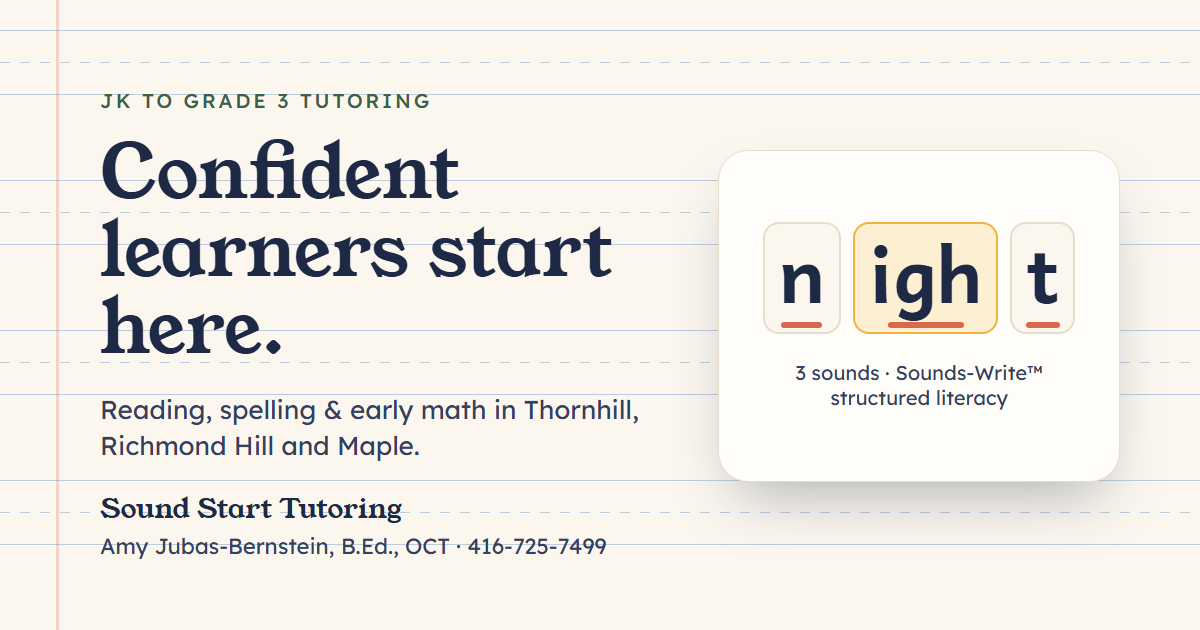
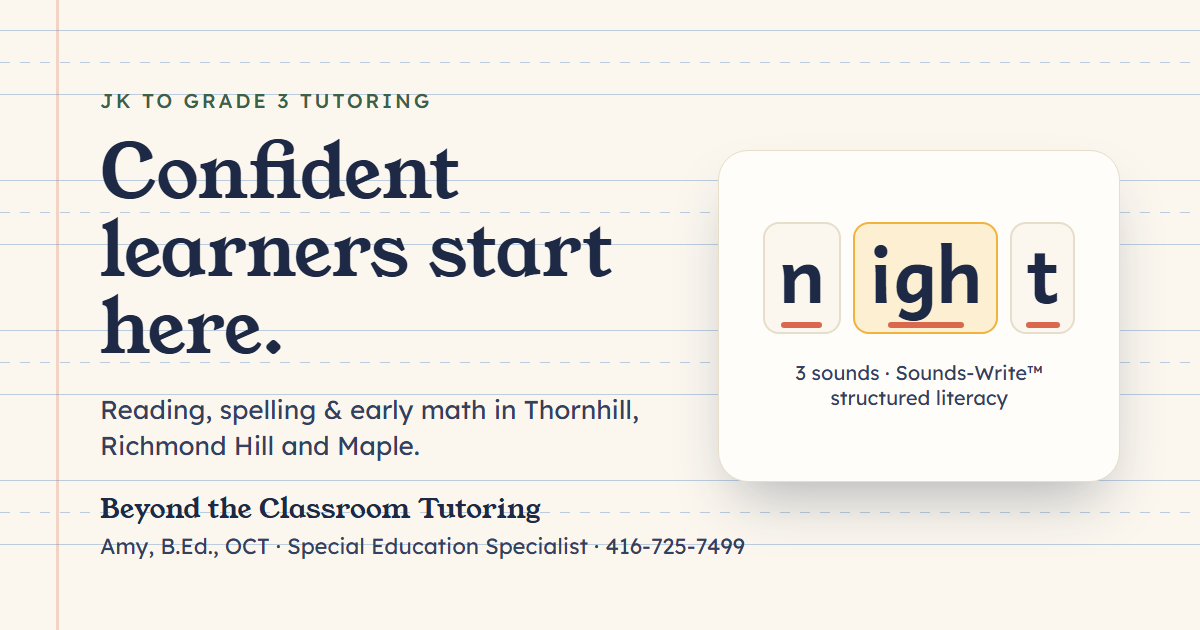
Rename to Beyond the Classroom Tutoring, first name only, add TDSB/YRDSB/private school experience

Changed region(s): [[0.0617, 0.7841, 0.6167, 0.9048]]

diff --git a/index.html b/index.html
@@ -3,21 +3,21 @@
 <head>
 <meta charset="utf-8">
 <meta name="viewport" content="width=device-width, initial-scale=1">
-<title>Sound Start Tutoring | JK–Grade 3 Tutor in Thornhill</title>
-<meta name="description" content="Specialized JK to Grade 3 tutoring in reading, spelling and early math with Amy Jubas-Bernstein, OCT. Sounds-Write structured literacy. Call 416-725-7499.">
+<title>Beyond the Classroom Tutoring | JK–Grade 3, Thornhill</title>
+<meta name="description" content="Specialized JK to Grade 3 tutoring in reading, spelling and early math with Amy, OCT, a Special Education Specialist. Sounds-Write literacy. Call 416-725-7499.">
 <link rel="canonical" href="https://jdix22.github.io/amy-tutor/">
 <meta name="theme-color" content="#1E2A45">
 <!-- Prospect preview: remove this line when Amy approves and the site moves to her domain -->
 <meta name="robots" content="noindex">
 
 <meta property="og:type" content="website">
-<meta property="og:site_name" content="Sound Start Tutoring">
-<meta property="og:title" content="Sound Start Tutoring | Confident learners start here">
-<meta property="og:description" content="JK to Grade 3 reading, spelling and early math tutoring in Thornhill, Richmond Hill and Maple with Amy Jubas-Bernstein, OCT.">
+<meta property="og:site_name" content="Beyond the Classroom Tutoring">
+<meta property="og:title" content="Beyond the Classroom Tutoring | Confident learners start here">
+<meta property="og:description" content="JK to Grade 3 reading, spelling and early math tutoring in Thornhill, Richmond Hill and Maple with Amy, an Ontario Certified Teacher.">
 <meta property="og:image" content="https://jdix22.github.io/amy-tutor/assets/og.png">
 <meta property="og:image:width" content="1200">
 <meta property="og:image:height" content="630">
-<meta property="og:image:alt" content="Sound Start Tutoring: the word night split into the sound tiles n, igh and t">
+<meta property="og:image:alt" content="Beyond the Classroom Tutoring: the word night split into the sound tiles n, igh and t">
 <meta property="og:url" content="https://jdix22.github.io/amy-tutor/">
 <meta property="og:locale" content="en_CA">
 <meta name="twitter:card" content="summary_large_image">
@@ -36,7 +36,7 @@
     {
       "@type": "ProfessionalService",
       "@id": "https://jdix22.github.io/amy-tutor/#business",
-      "name": "Sound Start Tutoring",
+      "name": "Beyond the Classroom Tutoring",
       "description": "Specialized JK to Grade 3 tutoring in structured literacy (Sounds-Write), reading, spelling and foundational math, in person in Thornhill, Richmond Hill and Maple, Ontario.",
       "slogan": "Confident learners start here.",
       "url": "https://jdix22.github.io/amy-tutor/",
@@ -66,7 +66,8 @@
     {
       "@type": "Person",
       "@id": "https://jdix22.github.io/amy-tutor/#amy",
-      "name": "Amy Jubas-Bernstein",
+      "name": "Amy",
+      "description": "Ontario Certified Teacher and Special Education Specialist with more than 10 years in special education, who has taught in the TDSB, YRDSB and private schools.",
       "jobTitle": "JK to Grade 3 tutor and Special Education Specialist",
       "email": "amyjb@rogers.com",
       "telephone": "+1-416-725-7499",
@@ -83,7 +84,7 @@
       "@type": "WebSite",
       "@id": "https://jdix22.github.io/amy-tutor/#website",
       "url": "https://jdix22.github.io/amy-tutor/",
-      "name": "Sound Start Tutoring",
+      "name": "Beyond the Classroom Tutoring",
       "publisher": { "@id": "https://jdix22.github.io/amy-tutor/#business" }
     },
     {
@@ -104,11 +105,11 @@
 <style>
   /*
     FACTS (single source for page text and JSON-LD). From Amy's flyer, Nov 2026.
-    Business name: NOT CHOSEN YET. Working name "Sound Start Tutoring" (find-and-replace to change;
+    Business name: Beyond the Classroom Tutoring (chosen by Amy, Nov 2026; find-and-replace to change;
                    preview any name with ?name=Your%20Name on the URL)
-    Tutor:         Amy Jubas-Bernstein
+    Tutor:         Amy (first name only: she does not want her surname on the site)
     Credentials:   Certified Special Education Specialist (10+ years), Sounds-Write trained, B.Ed., OCT
-    Experience:    Qualified educator, 10+ years
+    Experience:    10+ years in special education; taught in TDSB, YRDSB and private schools (show "10+", not total years)
     Grades:        JK to Grade 3 (K-3 specialist)
     Services:      Structured literacy (Sounds-Write) & early math; personalized learning; Sounds-Write phonics;
                    reading & spelling; foundational math; building confidence
@@ -451,9 +452,9 @@
 
 <header class="top" id="top">
   <div class="wrap">
-    <a class="brand" href="#main" aria-label="Sound Start Tutoring, home" data-brand-label>
+    <a class="brand" href="#main" aria-label="Beyond the Classroom Tutoring, home" data-brand-label>
       <svg viewBox="0 0 48 48" aria-hidden="true"><rect width="48" height="48" rx="14" fill="#1E2A45"/><text x="24" y="31" text-anchor="middle" font-family="Andika, sans-serif" font-weight="700" font-size="26" fill="#FBF7EF">a</text><rect x="15" y="36" width="18" height="3.5" rx="1.75" fill="#D9684C"/><circle cx="37" cy="11" r="4" fill="#F2B23E"/></svg>
-      <span class="brand-name" data-brand>Sound Start Tutoring</span>
+      <span class="brand-name" data-brand>Beyond the Classroom Tutoring</span>
     </a>
     <nav class="nav" aria-label="Main">
       <a href="#help">Services</a>
@@ -480,7 +481,7 @@
         <h1 id="h1" class="rv d1">Confident <span class="ul">learners<svg viewBox="0 0 300 20" preserveAspectRatio="none" aria-hidden="true"><path d="M4 14 C 60 4, 140 4, 200 10 S 280 14, 296 6"/></svg></span> start here.
           <span class="h1-sub">Specialized tutoring in reading, spelling and early math for children in JK to Grade 3.</span>
         </h1>
-        <p class="lede rv d2">Amy Jubas-Bernstein is an Ontario Certified Teacher and Special Education Specialist with more than 10 years of experience. She teaches reading through Sounds-Write&trade; structured literacy and builds the early math skills everything else depends on.</p>
+        <p class="lede rv d2">Amy is an Ontario Certified Teacher and Special Education Specialist with more than 10 years in special education, and has taught in the TDSB, YRDSB and private schools. She teaches reading through Sounds-Write&trade; structured literacy and builds the early math skills everything else depends on.</p>
         <div class="cta-row rv d2">
           <a class="btn btn-primary" href="tel:+14167257499">
             <svg viewBox="0 0 24 24" fill="none" stroke="currentColor" stroke-width="2" stroke-linecap="round" stroke-linejoin="round" aria-hidden="true"><path d="M22 16.9v3a2 2 0 0 1-2.2 2 19.8 19.8 0 0 1-8.6-3.1 19.5 19.5 0 0 1-6-6A19.8 19.8 0 0 1 2.1 4.2 2 2 0 0 1 4.1 2h3a2 2 0 0 1 2 1.7c.1 1 .4 1.9.7 2.8a2 2 0 0 1-.5 2.1L8 9.9a16 16 0 0 0 6 6l1.3-1.3a2 2 0 0 1 2.1-.4c.9.3 1.8.6 2.8.7a2 2 0 0 1 1.7 2z"/></svg>
@@ -519,9 +520,9 @@
   <div class="band">
     <div class="wrap">
       <ul>
-        <li class="rv"><strong>10+ years</strong><span>as a qualified educator</span></li>
+        <li class="rv"><strong>10+ years</strong><span>in special education</span></li>
         <li class="rv d1"><strong>OCT</strong><span>Ontario Certified Teacher</span></li>
-        <li class="rv d1"><strong>B.Ed.</strong><span>Bachelor of Education</span></li>
+        <li class="rv d1"><strong>TDSB · YRDSB</strong><span>and private schools</span></li>
         <li class="rv d2"><strong>Special Ed.</strong><span>Certified Special Education Specialist</span></li>
         <li class="rv d3"><strong>Sounds-Write&trade;</strong><span>trained in structured literacy</span></li>
       </ul>
@@ -649,19 +650,19 @@
   <!-- MEET AMY -->
   <section class="meet" id="amy" aria-labelledby="amy-h">
     <div class="wrap meet-grid">
-      <div class="portrait rv" role="img" aria-label="Amy Jubas-Bernstein monogram">
-        <span class="mono">AJB</span>
-        <div class="cap"><b>Amy Jubas-Bernstein</b>B.Ed., OCT · Special Education Specialist</div>
+      <div class="portrait rv" role="img" aria-label="Amy">
+        <span class="mono">Amy</span>
+        <div class="cap"><b>Your tutor, Amy</b>B.Ed., OCT · Special Education Specialist</div>
       </div>
       <div>
         <div class="eyebrow rv">Meet your tutor</div>
-        <h2 id="amy-h" class="rv d1">Amy Jubas-Bernstein</h2>
-        <p class="lede rv d2" style="margin-top:18px">Amy is an Ontario Certified Teacher with a Bachelor of Education, a certified Special Education Specialist, and a qualified educator with more than 10 years of experience. She is trained in Sounds-Write&trade; structured literacy and specializes in the early years, JK to Grade 3, tutoring in person in Thornhill, Richmond Hill and Maple.</p>
+        <h2 id="amy-h" class="rv d1">Meet Amy</h2>
+        <p class="lede rv d2" style="margin-top:18px">Amy is an Ontario Certified Teacher with a Bachelor of Education and a certified Special Education Specialist, with more than 10 years in special education. She has taught in the Toronto District School Board, the York Region District School Board and private schools. She is trained in Sounds-Write&trade; structured literacy and specializes in the early years, JK to Grade 3, tutoring in person in Thornhill, Richmond Hill and Maple.</p>
         <dl class="creds">
           <div class="cred rv"><dt>Ontario Certified Teacher</dt><dd>A member of the Ontario College of Teachers, the body that licenses teachers in Ontario.</dd></div>
-          <div class="cred rv d1"><dt>Special Education Specialist</dt><dd>The highest of three levels of Ontario's Special Education qualification for teachers.</dd></div>
+          <div class="cred rv d1"><dt>Special Education Specialist</dt><dd>The highest level of Ontario&rsquo;s Special Education qualification, backed by 10+ years in special education.</dd></div>
           <div class="cred rv"><dt>Sounds-Write&trade; trained</dt><dd>Trained to teach reading and spelling with Sounds-Write, a structured literacy program.</dd></div>
-          <div class="cred rv d1"><dt>10+ years</dt><dd>More than a decade of experience as a qualified educator.</dd></div>
+          <div class="cred rv d1"><dt>TDSB, YRDSB &amp; private schools</dt><dd>Classroom experience in Toronto and York Region public boards and in private schools.</dd></div>
         </dl>
       </div>
     </div>
@@ -797,10 +798,10 @@
   <div class="wrap">
     <a class="brand" href="#top" style="margin:0">
       <svg viewBox="0 0 48 48" aria-hidden="true"><rect width="48" height="48" rx="14" fill="#FBF7EF"/><text x="24" y="31" text-anchor="middle" font-family="Andika, sans-serif" font-weight="700" font-size="26" fill="#1E2A45">a</text><rect x="15" y="36" width="18" height="3.5" rx="1.75" fill="#D9684C"/><circle cx="37" cy="11" r="4" fill="#F2B23E"/></svg>
-      <span class="brand-name" data-brand>Sound Start Tutoring</span>
+      <span class="brand-name" data-brand>Beyond the Classroom Tutoring</span>
     </a>
-    <p>Amy Jubas-Bernstein, B.Ed., OCT · <a href="tel:+14167257499">416-725-7499</a> · <a href="mailto:amyjb@rogers.com">amyjb@rogers.com</a><br>JK to Grade 3 tutoring in Thornhill, Richmond Hill and Maple, Ontario</p>
-    <p class="fine">&copy; <span id="yr">2026</span> <span data-brand>Sound Start Tutoring</span>. Sounds-Write is a trademark of its owner and is named here to describe Amy's training. Photos from Unsplash. Website designed by <a href="https://jdix.ca">jdix.ca</a>.</p>
+    <p>Tutor: Amy, B.Ed., OCT · <a href="tel:+14167257499">416-725-7499</a> · <a href="mailto:amyjb@rogers.com">amyjb@rogers.com</a><br>JK to Grade 3 tutoring in Thornhill, Richmond Hill and Maple, Ontario</p>
+    <p class="fine">&copy; <span id="yr">2026</span> <span data-brand>Beyond the Classroom Tutoring</span>. Sounds-Write is a trademark of its owner and is named here to describe Amy's training. Photos from Unsplash. Website designed by <a href="https://jdix.ca">jdix.ca</a>.</p>
   </div>
 </footer>
 
@@ -813,7 +814,7 @@
 (function () {
   var FORM_ENDPOINT = '';            // optional, e.g. 'https://formspree.io/f/abcdwxyz'. Empty = open the visitor's email app
   var EMAIL = 'amyjb@rogers.com';
-  var NAME = 'Sound Start Tutoring'; // working name; try others live with ?name=Your%20Name
+  var NAME = 'Beyond the Classroom Tutoring'; // working name; try others live with ?name=Your%20Name
   var reduce = window.matchMedia('(prefers-reduced-motion: reduce)').matches;
 
   // Name preview: ?name=Bright%20Steps%20Learning swaps the business name everywhere on the page

diff --git a/404.html b/404.html
@@ -3,8 +3,8 @@
 <head>
 <meta charset="utf-8">
 <meta name="viewport" content="width=device-width, initial-scale=1">
-<title>Page not found | Sound Start Tutoring</title>
-<meta name="description" content="This page doesn't exist. Head back to Sound Start Tutoring for JK to Grade 3 reading, spelling and math tutoring, or call Amy at 416-725-7499.">
+<title>Page not found | Beyond the Classroom Tutoring</title>
+<meta name="description" content="This page doesn't exist. Head back to Beyond the Classroom Tutoring for JK to Grade 3 reading, spelling and math tutoring, or call Amy at 416-725-7499.">
 <meta name="robots" content="noindex">
 <link rel="icon" href="/amy-tutor/favicon.svg" type="image/svg+xml">
 <link href="https://fonts.googleapis.com/css2?family=Andika:wght@700&family=Lexend:wght@400;500&family=Young+Serif&display=swap" rel="stylesheet">

diff --git a/_src/og.html b/_src/og.html
@@ -20,6 +20,6 @@ p{font-size:26px;line-height:1.4;color:#33405E;margin:0}
 .c{font-size:20px;color:#33405E;text-align:center;padding:0 30px}
 </style></head><body>
 <div class="l"><div class="e">JK to Grade 3 tutoring</div><h1>Confident learners start here.</h1><p>Reading, spelling &amp; early math in Thornhill, Richmond Hill and Maple.</p></div>
-<div class="b"><b>Sound Start Tutoring</b>Amy Jubas-Bernstein, B.Ed., OCT · 416-725-7499</div>
+<div class="b"><b>Beyond the Classroom Tutoring</b>Amy, B.Ed., OCT · Special Education Specialist · 416-725-7499</div>
 <div class="card"><div class="w"><span>n</span><span class="m">igh</span><span>t</span></div><div class="c">3 sounds · Sounds-Write&trade; structured literacy</div></div>
 </body></html>

diff --git a/README.md b/README.md
@@ -1,32 +1,27 @@
-# Amy Jubas-Bernstein: JK–Grade 3 tutoring site
+# Beyond the Classroom Tutoring
 
-Prospect site for Amy Jubas-Bernstein (B.Ed., OCT, Special Education Specialist, Sounds-Write trained).
-Built from her flyer, November 2026. Single static page, no build step.
+JK–Grade 3 tutoring site for Amy (B.Ed., OCT, Special Education Specialist, Sounds-Write trained).
+Built from her flyer, November 2026, with her edits of 2 Nov 2026. Single static page, no build step.
 
 Live preview: https://jdix22.github.io/amy-tutor/
 
-## The business name (not chosen yet)
+## Amy's wording rules
 
-The working name is **Sound Start Tutoring**. To show Amy other names live, add `?name=` to the link:
-
-- https://jdix22.github.io/amy-tutor/?name=Bright%20Steps%20Learning
-- https://jdix22.github.io/amy-tutor/?name=First%20Sounds%20Tutoring
-- https://jdix22.github.io/amy-tutor/?name=Amy%20JB%20Tutoring
-
-Once she picks one, find-and-replace `Sound Start Tutoring` across `index.html`, `404.html` and
-`_src/og.html`, then re-render the social image (`assets/og.png`).
+- First name only. Her surname is not to appear anywhere on the site.
+- Experience is shown as "10+ years in special education". She has taught for longer but prefers not to give the total.
+- She has taught in the TDSB, YRDSB and private schools.
 
 ## Before launch: things to confirm with Amy
 
-Everything on the page comes from her flyer. These were not on it, so the site avoids them:
+Everything on the page comes from her flyer and her edits. These were not given, so the site avoids them:
 
 - Rates, session length, hours and availability (the site says "contact Amy for rates").
 - Where sessions happen: her home, the family's home, or both.
 - Whether she offers online sessions, an assessment, or a first free chat.
-- Whether texting 416-725-7499 is fine (site currently says "Call").
-- A photo of Amy for the "Meet your tutor" panel (currently an AJB monogram).
+- A photo of Amy for the "Meet Amy" panel (currently her first name set as a monogram).
 - Parent testimonials she has permission to use (none are on the site; never invent them).
-- "Getting started" steps (reach out → talk it through → begin sessions) are a sensible default; check they match how she works.
+- "Getting started" steps (reach out, talk it through, begin sessions) are a sensible default; check they match how she works.
+- Her email (amyjb@rogers.com) contains her initials; a business email on her own domain would avoid that.
 
 ## Go-live checklist
 
@@ -35,6 +30,8 @@ Everything on the page comes from her flyer. These were not on it, so the site a
 3. Optional: set `FORM_ENDPOINT` in the page script (e.g. Formspree) so the form sends without opening an email app.
 4. Owner to-dos: claim a Google Business Profile (service-area business: Thornhill, Richmond Hill, Maple, no public address),
    use the same name, phone and email everywhere, and ask happy families for Google reviews.
+
+The `?name=` link trick still works for trying other names: https://jdix22.github.io/amy-tutor/?name=Another%20Name
 
 ## Files
 
